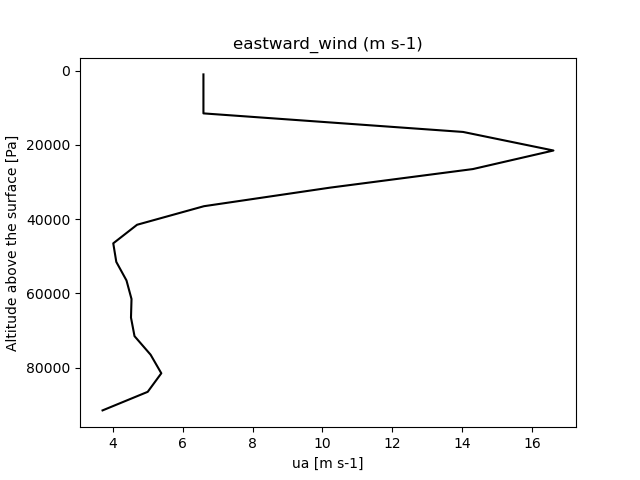
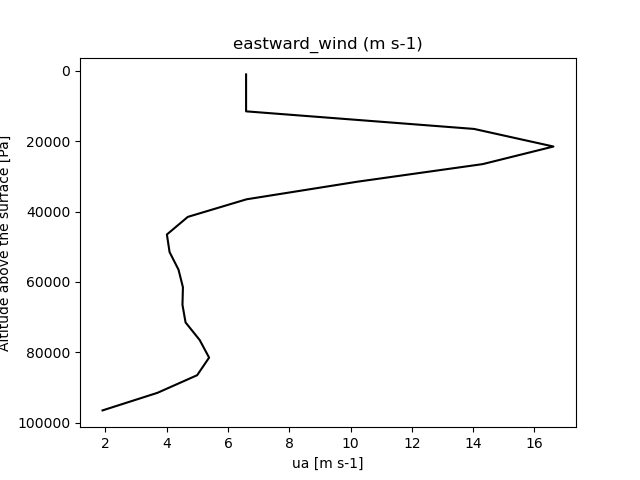
set Ts rad in EUROCS and fix wind init profiles

diff --git a/EUROCS/REF/driver_DEF_EUROCS_REF_new.py b/EUROCS/REF/driver_DEF_EUROCS_REF_new.py
@@ -69,11 +69,11 @@ case.add_init_theta(th, lev=P, levtype='pressure')
 case.add_init_rv(rv, lev=P, levtype='pressure')
 print('Psize',P.shape,'thsize',th.shape)
 # Altitude above the ground
-Pu= np.genfromtxt('init_uv.txt',dtype=None,skip_header=1,usecols=0)
+Pu= np.genfromtxt('init_uv.txt',dtype=None,skip_header=0,usecols=0)
 
 # Zonal and meridional wind
-u = np.genfromtxt('init_uv.txt',dtype=None,skip_header=1,usecols=1)
-v = np.genfromtxt('init_uv.txt',dtype=None,skip_header=1,usecols=2)
+u = np.genfromtxt('init_uv.txt',dtype=None,skip_header=0,usecols=1)
+v = np.genfromtxt('init_uv.txt',dtype=None,skip_header=0,usecols=2)
 
 case.add_init_wind(u=u,v=v, lev=Pu, levtype='pressure')
 
@@ -292,7 +292,9 @@ lateSfc = np.genfromtxt('sfceforcing_fluxlat.txt',dtype=None,skip_header=0,useco
 tsSfc = np.genfromtxt('sfceforcing_ts.txt',dtype=None,skip_header=0,usecols=0)
 
 case.add_surface_fluxes(sens=sensSfc,lat=lateSfc,time=timeSfc,forc_wind='z0',z0=0.15)
-case.add_forcing_ts(tsSfc,time=timeSfc,z0=0.15)
+#case.add_forcing_ts(tsSfc,time=timeSfc,z0=0.15)
+case.add_rad_ts(tsSfc,time=timeSfc)
+
 #besoin de rajouter definition de Emissivite=0.994 et Albedo=0.17
 alb=0.17
 emis=0.994
